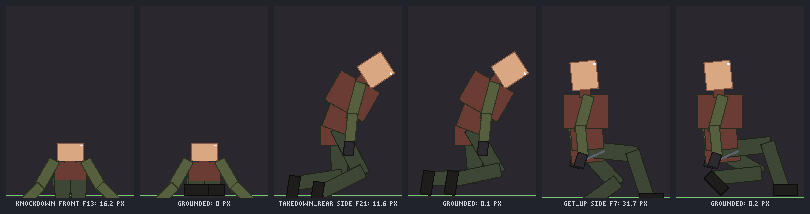
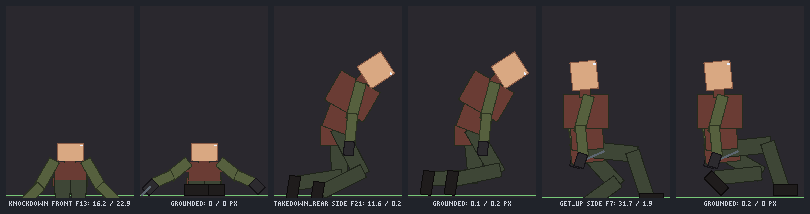
Gun butt-stroke hit volumes: blend the weapon origin across differently anchored carry tweens; tests and docs for hand ground contact
- weapon.js: a tween between carry states placed by different weapon points
  (grip -> stock) placed the weapon from one anchor or the other and jumped
  ~14 px in front/back at its middle; it now blends the origin placed from both.
- With the 8-sub-step hulls and the 16x check (5e24173), dmr / lmg butt_stroke
  escape 14.5 / 13.8 px (10.6 / 11.6 heavy) -> 0 for every melee clip of every set.
- Tests: hand_sink_px and sweep_miss_px 0 in the ground-contact sweep; dmr / lmg
  butt stroke for base, heavy and light skins.
- CHANGELOG, README, ground_contact demo labels (foot / hand), gun disarm strip.

diff --git a/test/limits.test.js b/test/limits.test.js
@@ -33,7 +33,8 @@ test('limits corpus: everything that does not use a changed feature is byte-iden
   // the intentional change (CHANGELOG): the knife disarm_front fit now reaches its optimum (offset
   // 73.15; 0.9.0 stopped on the search bound at 70), so those clips and the batch manifest differ.
   // Ground contact (feet below the ground row lifted by leg IK) changes melee frame poses, not clip
-  // files: of the corpus only that batch manifest (takedown_rear_victim frames) can see it.
+  // files: of the corpus only that batch manifest (takedown_rear_victim frames) can see it; its
+  // swept hulls are also built from 8 sub-steps now (were 4).
   for (const k of INTENDED) assert.notEqual(now[k], golden[k], `${k} expected to change`);
 });
 
@@ -509,7 +510,7 @@ test('paired fit: the offset search is deterministic and idempotent (interior op
 });
 
 // ---------- ground contact ----------
-test('ground contact: no foot sinks in any melee or paired clip, every view, both proportion sets (128x192); melee_check keeps the warning', () => {
+test('ground contact: no foot or hand sinks in any melee or paired clip, every view, both proportion sets (128x192); melee_check keeps the warnings', () => {
   const e = new Engine({ home: tmp() });
   const sinking = (c) => (c.issues || []).filter((i) => /sinks/.test(i));
   for (const [sk, mel, skel] of [...SETS.slice(0, 2), ['rf', {}, { weapon: { class: 'rifle' } }]]) {
@@ -524,6 +525,8 @@ test('ground contact: no foot sinks in any melee or paired clip, every view, bot
       for (const [n, c] of Object.entries(r.clips)) {
         assert.deepEqual(sinking(c), [], `${sk} ${JSON.stringify(a)} ${n}`);
         assert.ok(c.foot_sink_px <= 1, `${sk} ${n}: foot_sink_px ${c.foot_sink_px}`);
+        assert.ok(c.hand_sink_px <= 1, `${sk} ${n}: hand_sink_px ${c.hand_sink_px}`);
+        if (c.sweep_miss_px !== undefined) assert.equal(c.sweep_miss_px, 0, `${sk} ${JSON.stringify(a)} ${n}: sweep_miss_px`);
       }
     }
   }
@@ -534,5 +537,22 @@ test('ground contact: no foot sinks in any melee or paired clip, every view, bot
   assert.equal(r.knockdown.pass, true);
   assert.ok(r.kd_raw.foot_sink_px > 10, `ungrounded knockdown sinks ${r.kd_raw.foot_sink_px} px`);
   assert.match(sinking(r.kd_raw)[0], /^a foot sinks [\d.]+ px below the ground \(foot_[fb], (front|back)\w* frame \d+\)$/);
+  assert.ok(r.kd_raw.hand_sink_px > 10 && r.knockdown.hand_sink_px <= 1, `hands: ungrounded ${r.kd_raw.hand_sink_px} px, grounded ${r.knockdown.hand_sink_px} px`);
+  assert.match(sinking(r.kd_raw)[1], /^a hand sinks [\d.]+ px below the ground \(hand_[fb], \w+ frame \d+\)$/);
   assert.throws(() => e.run('anim_clip', { skeleton: 'kn', name: 'kd_bad', keys: kd.keys, frames: kd.frames, ground: 'yes' }), /ground must be true \| false/);
+});
+
+// ---------- butt-stroke hit volumes ----------
+test('gun butt strokes: the exported swept hulls cover the weapon path sampled 16x between frames (dmr / lmg, both proportion sets, 128x192)', () => {
+  const e = new Engine({ home: tmp() });
+  for (const cls of ['dmr', 'lmg']) {
+    e.run('anim_skeleton', { name: cls, template: 'humanoid_hd', frame: [128, 192], proportions: PROPS, weapon: { class: cls } });
+    e.run('anim_melee', { skeleton: cls });
+    for (const p of ['heavy', 'light']) e.run('anim_skin', { name: `${cls}_${p}`, skeleton: cls, proportions: p });
+    for (const a of [{ skeleton: cls }, { skin: `${cls}_heavy` }, { skin: `${cls}_light` }]) {
+      const c = e.run('anim_melee_check', { ...a, clips: ['butt_stroke'] }).clips.butt_stroke;
+      assert.equal(c.sweep_miss_px, 0, `${cls} ${JSON.stringify(a)}: ${JSON.stringify(c.issues)}`);
+      assert.ok(c.pass, `${cls} ${JSON.stringify(a)}: ${JSON.stringify(c.issues)}`);
+    }
+  }
 });

diff --git a/src/weapon.js b/src/weapon.js
@@ -397,8 +397,13 @@ function blendPlacement(a, b, t) {
   if (t <= 0) return a;
   if (t >= 1) return b;
   const pick = t < 0.5 ? a : b;
+  // the screen anchor (the point the weapon is placed by) changes with the state: keep both and
+  // blend where the weapon lands, so a tween between states anchored on different points does not
+  // jump at its middle (a butt stroke turning from the grip onto the stock)
+  const anchorOf = (p) => ({ point: p.point, ref: p.ref, hold: p.hold });
+  const anchors = !a.anchors && !b.anchors && (a.point !== b.point || a.ref !== b.ref || a.hold !== b.hold) ? [anchorOf(a), anchorOf(b), t] : undefined;
   return {
-    ...pick, O: a.O.map((v, i) => lerp(v, b.O[i], t)), theta: a.theta + adiff(a.theta, b.theta) * t,
+    ...pick, ...(anchors ? { anchors } : {}), O: a.O.map((v, i) => lerp(v, b.O[i], t)), theta: a.theta + adiff(a.theta, b.theta) * t,
     lock: { main: lerp(a.lock.main, b.lock.main, t), support: lerp(a.lock.support, b.lock.support, t) },
     weld: lerp(a.weld, b.weld, t), aimF: lerp(a.aimF ?? 0, b.aimF ?? 0, t), hidden: lerp(a.hidden, b.hidden, t), shouldered: a.shouldered && b.shouldered, blend: [a.name, b.name, r2(t)],
   };
@@ -646,7 +651,19 @@ export function solveHeld(rig, P, src) {
   const flipW = !viewCell && Mu[0] < 0;
   const phi = flipW ? Math.atan2(-Mu[1], -Mu[0]) * R2D : Math.atan2(Mu[1], Mu[0]) * R2D;
   const sxs = viewCell ? 1 : flipW ? -L : L;
-  const scr = (p) => { const [dx, dy] = rot2(phi, sxs * (p.x - anc.x), p.y - anc.y); return [ancScr[0] + dx, ancScr[1] + dy]; };
+  let scr = (p) => { const [dx, dy] = rot2(phi, sxs * (p.x - anc.x), p.y - anc.y); return [ancScr[0] + dx, ancScr[1] + dy]; };
+  if (s.pl.anchors) {
+    // tween between differently anchored states: the weapon origin placed from each anchor, blended
+    const originFrom = ({ point, ref, hold }) => {
+      const role = ref === 'support' || hold === 'support' ? 'support' : 'main', sh = s.chains[role][0];
+      const an = localPoint(rig, W, point, s.active) || s.gm, d = proj(sub(at3(s.O, s.f, an), s.S3(sh)));
+      const [dx, dy] = rot2(phi, -sxs * an.x, -an.y);
+      return [Wv[sh].x + d[0] + dx, Wv[sh].y + d[1] + dy];
+    };
+    const [A, B, t] = s.pl.anchors, oa = originFrom(A), ob = originFrom(B);
+    const o = [oa[0] + (ob[0] - oa[0]) * t, oa[1] + (ob[1] - oa[1]) * t];
+    scr = (p) => { const [dx, dy] = rot2(phi, sxs * p.x, p.y); return [o[0] + dx, o[1] + dy]; };
+  }
   const handDir = (alpha) => { const hl = rot2(alpha, 0, 1); const [dx, dy] = rot2(phi, sxs * hl[0], hl[1]); return [dx, dy]; };
   const O2 = scr({ x: 0, y: 0 });
   // pose IK targets on weapon points: {weapon:"mag", at?:[dx,dy]} (weapon cell px), also inside tweened mixes

diff --git a/scripts/limits-demos.js b/scripts/limits-demos.js
@@ -404,7 +404,7 @@ const frameOf = (canvas, f) => { const d = e.get(canvas), fh = d.frameHeight || 
   save('rigged_lods_ao.png', packImages(items, { labels: true, checker: false, columns: 3 }));
 }
 
-// ---------- 12. ground contact: melee clips without (ground:false) and with the leg IK onto the ground row ----------
+// ---------- 12. ground contact: melee clips without (ground:false) and with limb IK onto the ground row (labels: foot / hand sink px) ----------
 {
   const items = [];
   const groundLine = (img, row) => { const d = new Uint8ClampedArray(img.data); for (let x = 0; x < img.width; x++) if (!d[(row * img.width + x) * 4 + 3]) d.set([120, 200, 120, 255], (row * img.width + x) * 4); return { ...img, data: d }; };
@@ -416,7 +416,7 @@ const frameOf = (canvas, f) => { const d = e.get(canvas), fh = d.frameHeight || 
     for (const [name, lab] of [[`${clip}_raw`, 'ground:false'], [clip, 'ground contact']]) {
       e.run('anim_render', { skin: 'pk_v', clip: name, view, canvas: `gc_${name}_${view}` });
       const row = lowest(frameOf(`gc_${name}_${view}`, 0));
-      items.push({ img: pane(groundLine(frameOf(`gc_${name}_${view}`, f), row)), label: lab === 'ground:false' ? `${clip.replace('_victim', '')} ${view} f${f}: ${sink[name].foot_sink_px} px` : `grounded: ${sink[name].foot_sink_px} px` });
+      items.push({ img: pane(groundLine(frameOf(`gc_${name}_${view}`, f), row)), label: lab === 'ground:false' ? `${clip.replace('_victim', '')} ${view} f${f}: ${sink[name].foot_sink_px} / ${sink[name].hand_sink_px}` : `grounded: ${sink[name].foot_sink_px} / ${sink[name].hand_sink_px} px` });
     }
   }
   save('ground_contact.png', packImages(items, { labels: true, checker: false, columns: 6 }));

diff --git a/CHANGELOG.md b/CHANGELOG.md
@@ -34,6 +34,8 @@ Fixes the known limits of art_fx, damage and melee from 0.9.0. Everything that d
 - Per-skeleton takedowns: skins with proportions get paired pairs refit on their own rigs in batch, `anim_paired` and `melee_check {skin, victim_skin}` (`refit_offset`). Light on heavy passes: a front / back hand IK that falls short reaches in depth (`plane:"depth"`) or swings the arm into the frontal plane (full length), whichever lands closer (light-on-heavy rear takedown: 6.8 px -> 3.0 px against a 4 px tolerance at 64x96). Every heavy / light pairing of the knife set passes.
 - Deterministic paired fit: the offset search runs on an absolute grid (1/20 body unit), widens until the optimum is inside the window (0.9.0 stopped on its +-30 bound for the knife disarm), and ties take the middle of the tied run. Two fresh engines give byte-identical refits for every paired clip, and refitting a refit pair returns it unchanged.
 - Ground contact: melee and paired clips lift any foot drawn below the view's ground row back onto it with leg IK (front / back: the leg foreshortens in depth, so a fallen body's legs lie on the ground instead of hanging below the frame; other views: the knee stays on its side; the foot keeps its world rotation). Frames with no sinking foot are untouched. `melee_check` measures the drawn foot box (rotated, scaled) against each actor's own ground row in every view for every melee clip (`foot_sink_px`, issue names the actor, foot, view and frame); it was the side view of paired clips only. Worst sink at 128x192 over the knife, shield and all 8 gun sets, heavy on light and light on heavy: get_up 35.4 -> 0.4 px, knockdown 17.0 -> 0.4, shield_knockdown 17.9 -> 0.4, takedown_rear 15.6 -> 0.2, stagger_* 4.3-6.3 -> 0.2, disarm_front 1.5 -> 0.2 (the 0.9.0 side-only check reported takedown_rear 4.5 and shield_knockdown 3.5). Clip `ground:false` turns it off.
+- Hands too: the ground pass lifts every limb end (feet, hands on a two-bone arm; `groundEnds`) with limb IK, and `melee_check` reports `hand_sink_px` with its own warning ("a hand sinks ..."). Worst hand at 128x192 over every set and pairing: knockdown / get_up / shield_knockdown 22.9 -> 0 px, takedown_rear 14.9 -> 0.2 px (front / front_side of the fallen victim).
+- Gun butt strokes: the swing no longer leaves its hit volumes (dmr 14.5 px, lmg 13.8 px at 128x192 -> 0 for every melee clip of every set, both proportion sets). Two causes, both fixed: a tween between carry states anchored on different weapon points (grip -> stock) jumped at its middle, because the weapon was placed from one anchor or the other; it now blends the weapon origin placed from both anchors. And the exported swept hulls are built from 8 sub-steps (were 4), while `melee_check` samples the path 16x between frames (was 8x): the check got stricter, not looser.
 - Front / back depth staging: a face-to-face partner is drawn mirrored in front / back (`paired.partner_flip`, as the side views draw it from a mirror view), so its weapon hand stays on the same side and the contacts meet in depth; lateral staging is only the remainder (knife disarm at 128x192: 25.2 px -> 0 px; every melee set <= 3 px). `anim_paired` draws it the same way.
 
 ### Intentional default changes
@@ -45,7 +47,9 @@ Fixes the known limits of art_fx, damage and melee from 0.9.0. Everything that d
 - Damage exports with `bake_ao` / `lightmap` / `thickness` / `uv2` / `uv3` move the mask UVs off TEXCOORD_1 and bake AO etc. into the damage glbs; with `lods` the intact LODs carry the blend; intact overlay shells carry the morph; breaches close open hosts; models with named parts / sockets / clips export rigged damage states.
 - Gun skeletons get `disarm_front_attacker` / `_victim` clips (were not written).
 - Front / back batch anims of paired clips gain `partner_dx_track`; `anim_paired` front / back canvases are staged the same way.
-- Melee clip frames whose feet sank below the ground are drawn grounded (batch strips, `anim_render`, `anim_paired`, glTF clip export of melee clips); the clip files are unchanged. `melee_check` reports `foot_sink_px` for every melee clip.
+- Melee clip frames whose feet sank below the ground are drawn grounded (batch strips, `anim_render`, `anim_paired`, glTF clip export of melee clips); the clip files are unchanged. `melee_check` reports `foot_sink_px` and `hand_sink_px` for every melee clip.
+- Swept hulls in the batch manifest's melee hit volumes are built from 8 sub-steps (were 4), so their polygons change for every melee clip.
+- Gun tweens between carry states anchored on different weapon points (a butt stroke turning from the grip onto the stock) no longer jump at their middle; those in-between frames change.
 - The melee-set (knife, baton + shield) `disarm_front` fit offset is 73.15 (0.9.0: 70, on the search bound), so those clips and their batch manifests change (3 corpus digests, listed in the corpus test). Gun disarms and the other pairs keep their offsets.
 - Front / back of face-to-face pairs (`disarm_front`, `shield_knockdown`) gain `partner_flip` and are drawn mirrored; their front / back IK targets change.
 - Skinned damage exports with `lods` / `profile:"roblox"` / `lightmap` / `thickness` and skinned `model_fracture` are no longer refused; rigged plain exports with `lods` / `bake_ao` / `lightmap` / `thickness` and skinned plain exports with `lods` / `bake_ao` / `lightmap` / `thickness` are no longer refused.

diff --git a/README.md b/README.md
@@ -166,7 +166,7 @@ Author motion once per skeleton and render it on every character. A skeleton is 
 - **Melee:** `melee {skeleton, weapon?, shield?}` writes a melee clip set onto a humanoid_hd skeleton.
   - Strikes per weapon: knife slash / stab / combo, blade and heavy swings, baton strike with a shock tip, rifle butt-stroke, pistol whip, punches, kick and shove. Also block and parry, hit reactions in four directions, stagger, knockdown and get-up.
   - Paired takedowns (`takedown_rear`, `disarm_front`, `shield_knockdown`) are attacker / victim clips that share one alignment. On gun skeletons `disarm_front` takes the gun (`disarm:"take"`) or knocks it to the floor (`disarm:"drop"`) for every handling class, with a per-frame gun track for both actors' weapon layers.
-  - Ground contact: a melee clip foot drawn below the ground row is lifted onto it by leg IK in every view (fallen bodies keep their legs on the ground in front / back); `melee_check` reports `foot_sink_px` per clip.
+  - Ground contact: a melee clip foot or hand drawn below the ground row is lifted onto it by limb IK in every view (fallen bodies keep their legs and hands on the ground in front / back); `melee_check` reports `foot_sink_px` / `hand_sink_px` per clip, and checks the weapon path 16x between frames against the exported hit volumes.
   - Front and back views are checked in 3D (screen gap plus the side-view depth). A face-to-face partner is staged in depth and drawn mirrored there (`partner_flip`, matching the side views), so contacts meet without a big sideways shift; what remains is staged per frame (`partner_dx_track`, at most 3 px at 128x192). Skins with proportions get each pair refit on their own rigs (heavy on light, light on heavy, all passing). The offset fit is deterministic: two runs give byte-identical clips.
   - `batch` adds `anims.<clip>_<view>.melee` to the characters manifest: phases, events (windup, active start / end, impact, recovery, sound, effect), a hit capsule per active frame and view with the swept polygon since the previous frame, damage type, stamina, root motion, combo windows and paired metadata.
   - `melee_check` validates event order, sweep coverage, foot slide and contact alignment.
